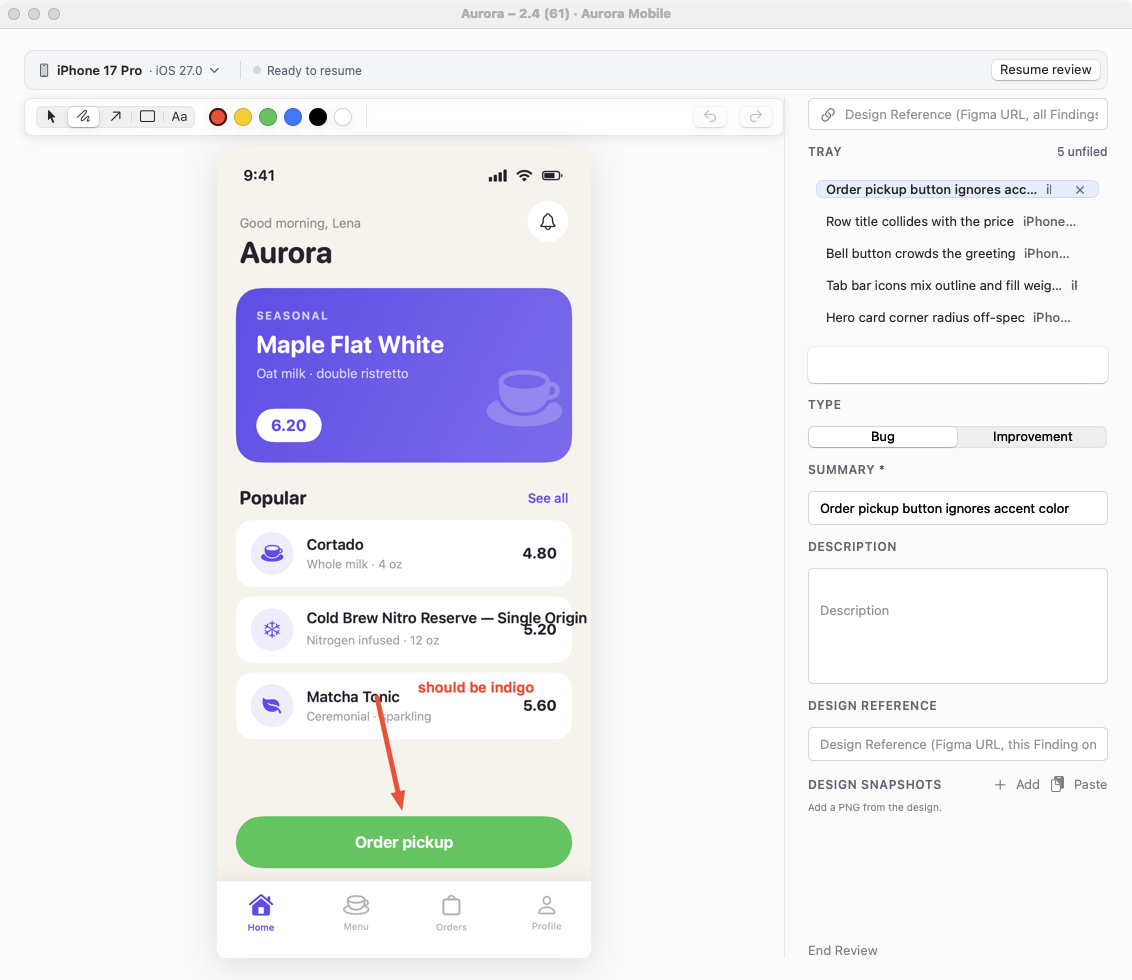
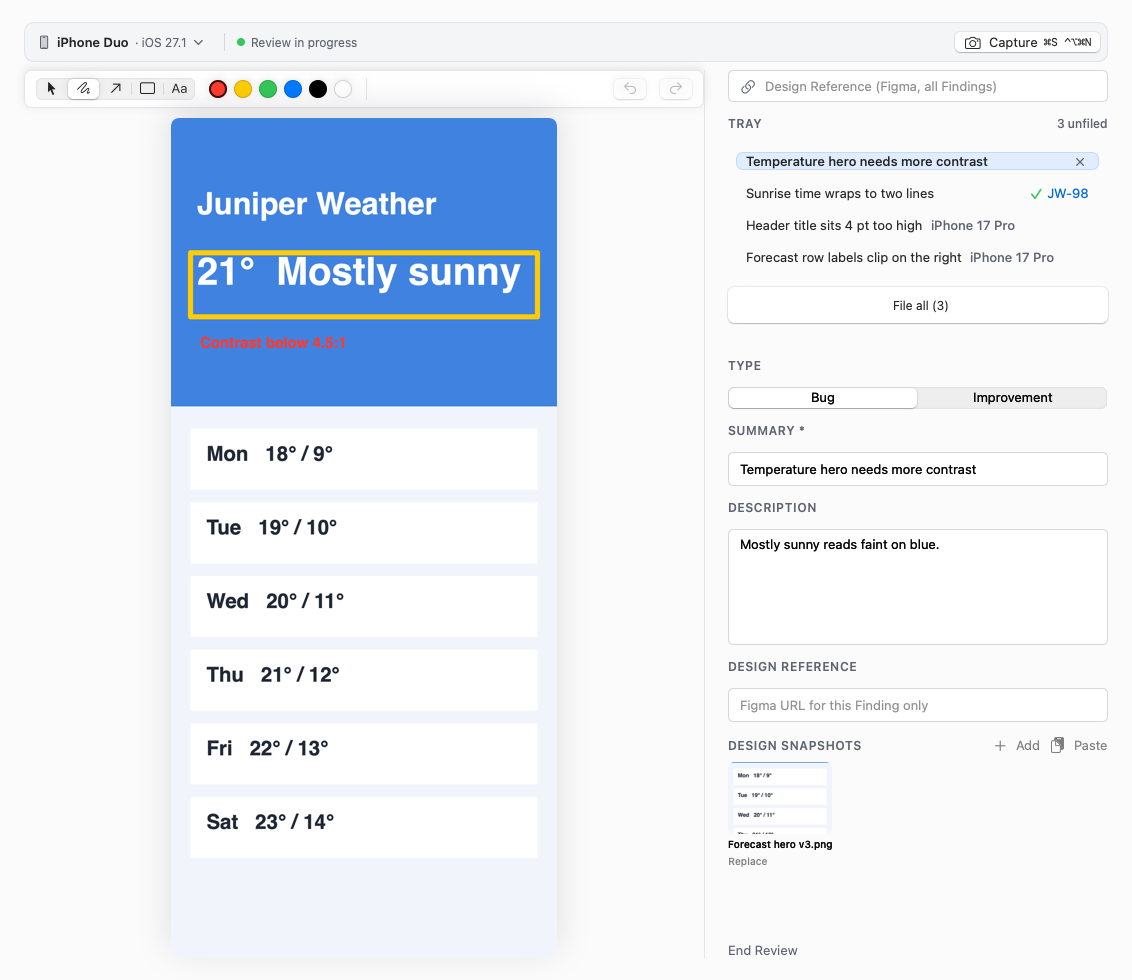
docs(readme): the screenshot is a fresh quiet render of a fictional Review Session at the same 1132x980 size, with a dark variant GitHub shows in Dark Mode

diff --git a/README.md b/README.md
@@ -8,7 +8,10 @@
 
 nitpick closes the loop between design and implementation: a designer reviews a build in the iOS simulator, captures what's on screen, annotates it, and files each finding as a YouTrack issue — without leaving the review flow.
 
-![A Review Session in nitpick: an annotated capture in the Editor, the Tray of unfiled Findings, and the triage fields](assets/screenshots/home.png)
+<picture>
+  <source media="(prefers-color-scheme: dark)" srcset="assets/screenshots/home-dark.png">
+  <img alt="A Review Session in nitpick: an annotated capture in the Editor, the Tray of unfiled Findings, and the triage fields" src="assets/screenshots/home.png">
+</picture>
 
 ## How a review works
 
